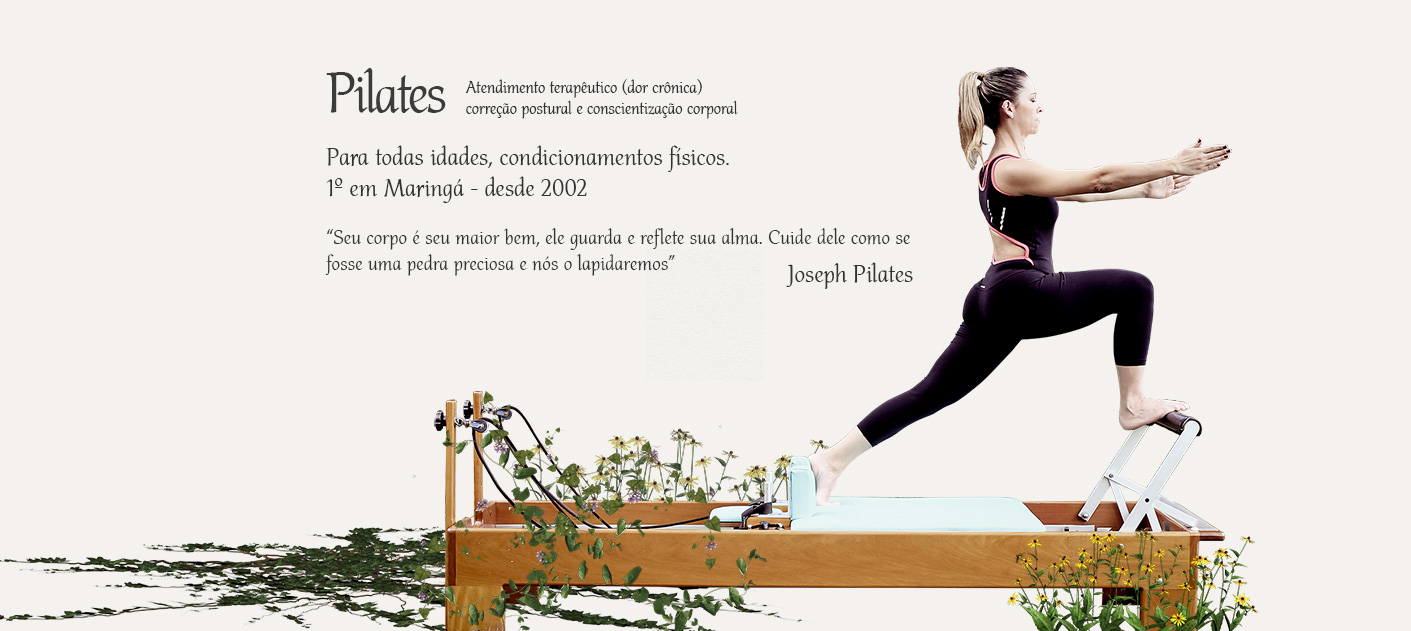
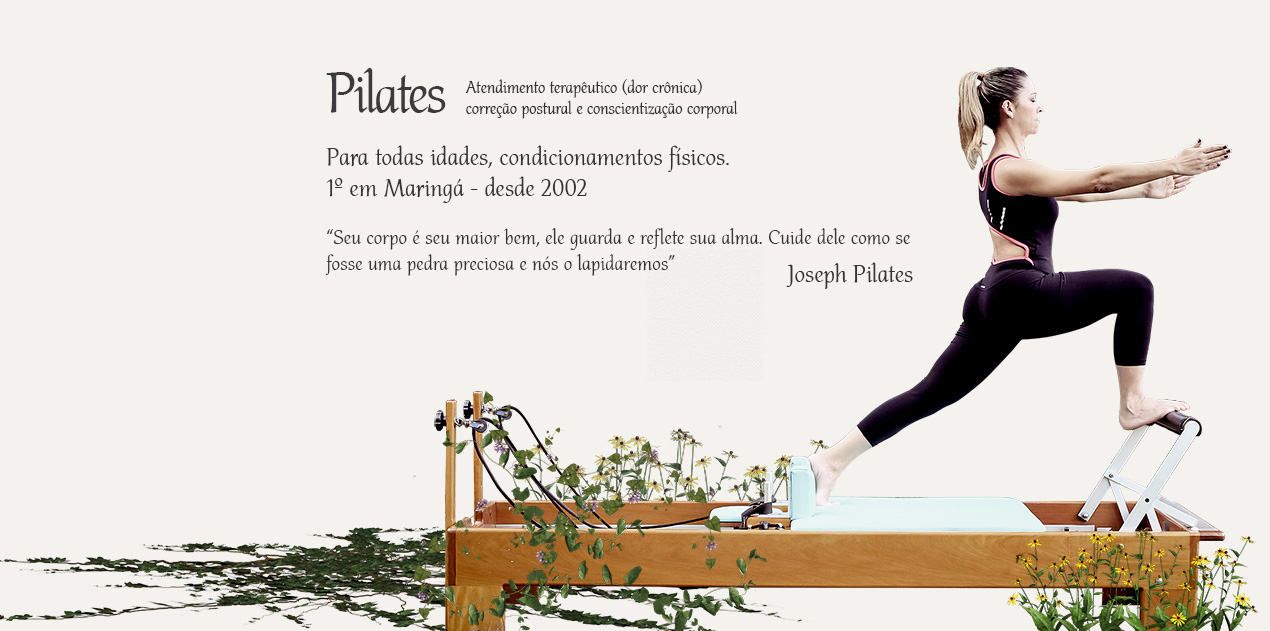
muitas alterações, dotenv, mobile-detect, etc

Changed region(s): [[0.0, 0.0903, 0.9827, 1.0], [0.215, 0.2409, 0.5835, 0.3312], [0.215, 0.0903, 0.5835, 0.1807]]

diff --git a/app/front/js/nanobar.min.js b/app/front/js/nanobar.min.js
@@ -1,1 +1,1 @@
-(function(root){"use strict";var css=".nanobar{width:100%;height:4px;z-index:9999;top:0}.bar{width:0;height:100%;transition:height .3s;background:#000}";function addCss(){var s=document.getElementById("nanobarcss");if(s===null){s=document.createElement("style");s.type="text/css";s.id="nanobarcss";document.head.insertBefore(s,document.head.firstChild);if(!s.styleSheet)return s.appendChild(document.createTextNode(css));s.styleSheet.cssText=css}}function addClass(el,cls){if(el.classList)el.classList.add(cls);else el.className+=" "+cls}function createBar(rm){var el=document.createElement("div"),width=0,here=0,on=0,bar={el:el,go:go};addClass(el,"bar");function move(){var dist=width-here;if(dist<.1&&dist>-.1){place(here);on=0;if(width===100){el.style.height=0;setTimeout(function(){rm(el)},300)}}else{place(width-dist/4);setTimeout(go,16)}}function place(num){width=num;el.style.width=width+"%"}function go(num){if(num>=0){here=num;if(!on){on=1;move()}}else if(on){move()}}return bar}function Nanobar(opts){opts=opts||{};var el=document.createElement("div"),applyGo,nanobar={el:el,go:function(p){applyGo(p);if(p===100){init()}}};function rm(child){el.removeChild(child)}function init(){var bar=createBar(rm);el.appendChild(bar.el);applyGo=bar.go}addCss();addClass(el,"nanobar");if(opts.id)el.id=opts.id;if(opts.classname)addClass(el,opts.classname);if(opts.target){el.style.position="relative";opts.target.insertBefore(el,opts.target.firstChild)}else{el.style.position="fixed";document.getElementsByTagName("body")[0].appendChild(el)}init();return nanobar}if(typeof exports==="object"){module.exports=Nanobar}else if(typeof define==="function"&&define.amd){define([],function(){return Nanobar})}else{root.Nanobar=Nanobar}})(this);
+(function(root){var css=".nanobar{width:100%;height:4px;z-index:9999;top:0}.bar{width:0;height:100%;transition:height .3s;background:#000}";function addCss(){var s=document.getElementById("nanobarcss");if(s===null){s=document.createElement("style");s.type="text/css";s.id="nanobarcss";document.head.insertBefore(s,document.head.firstChild);if(!s.styleSheet)return s.appendChild(document.createTextNode(css));s.styleSheet.cssText=css}}function addClass(el,cls){if(el.classList)el.classList.add(cls);else el.className+=" "+cls}function createBar(rm){var el=document.createElement("div"),width=0,here=0,on=0,bar={el:el,go:go};addClass(el,"bar");function move(){var dist=width-here;if(dist<.1&&dist>-.1){place(here);on=0;if(width===100){el.style.height=0;setTimeout(function(){rm(el)},300)}}else{place(width-dist/4);setTimeout(go,16)}}function place(num){width=num;el.style.width=width+"%"}function go(num){if(num>=0){here=num;if(!on){on=1;move()}}else if(on){move()}}return bar}function Nanobar(opts){opts=opts||{};var el=document.createElement("div"),applyGo,nanobar={el:el,go:function(p){applyGo(p);if(p===100){init()}}};function rm(child){el.removeChild(child)}function init(){var bar=createBar(rm);el.appendChild(bar.el);applyGo=bar.go}addCss();addClass(el,"nanobar");if(opts.id)el.id=opts.id;if(opts.classname)addClass(el,opts.classname);if(opts.target){el.style.position="relative";opts.target.insertBefore(el,opts.target.firstChild)}else{el.style.position="fixed";document.getElementsByTagName("body")[0].appendChild(el)}init();return nanobar}if(typeof exports==="object"){module.exports=Nanobar}else if(typeof define==="function"&&define.amd){define([],function(){return Nanobar})}else{root.Nanobar=Nanobar}})(this);

diff --git a/app/front/css/main.css b/app/front/css/main.css
@@ -1,5 +1,5 @@
 /*=========== GLOBAL CONFIGS ==========*/
-* {padding: 0;}
+* {margin: 0; padding: 0; font-size: 100%; border: none; outline: none; font-weight: 300; box-sizing: border-box;}
 body{font-family: 'Open Sans', sans-serif !important; background:#f3f1ed url(img/bg_texture.png) repeat;}
 a{text-decoration: none !important; color: #31c1cd;}
 p{ color:#131212;        /* rubens */ font-size: 16px;}
@@ -8,6 +8,7 @@ h1, h2, h3, h4, h5{ font-family: 'Shadows Into Light Two' !important;}
 .btn{background-color:#31c1cd; color:#fff;}
 .btn:hover{background-color:#a4dadf; color:#131212; }
 section{padding:5px 0;}
+.center{ margin: 0 auto;}
 
 /*=========== NANOBAR ==========*/
 div.nanobar div.bar { background: #31c1cd; border-radius: 3px; box-shadow: 0 0 6px #59d; height:3px; margin: 0 auto;}
@@ -17,8 +18,8 @@ div.nanobar div.bar { background: #31c1cd; border-radius: 3px; box-shadow: 0 0 6
 .cl-verde{color:#31c1cd;}
 .bg-azulclaro{background-color:#c0dbd2;}
 .cl-azulclaro{color:#c0dbd2;}
-.bg-cinza{background-color:#343434;}
-.cl-cinza{color:#343434;}
+.bg-cinza{background-color:#414141;}
+.cl-cinza{color:#414141;}
 .cl-black {color: #000; }
 .bg-white {background-color: #fff;}
 .cl-white {color: #fff;}
@@ -60,8 +61,8 @@ div.menu div#navbar-menu:hover,
 #banners .caption h1 { color: #fff; font-size: 40px; margin-bottom: 30px; }
 #banners .caption .btn-start { color: #fff; font-size: 14px; font-weight: 600; padding:14px 40px; border: 1px solid #6e6d6c; border-radius: 4px; margin-top: 40px; }
 #banners .caption .btn-start:hover { color: #fff; }
-#banners div.home { background-color:rgba(49,193,204,.6);; padding: 50px;  position:relative ; margin:0 auto; width:40%; min-width:400px; top:20%;}
-#banners div.home img{ width:90%; height:90%; margin: 0 auto;}
+#banners div.home { background-color:rgba(49,193,204,.5); padding: 20px;  position:relative ; margin:0 auto; width:70%; top:30%;}
+#banners div.home img{ margin: 0 auto;}
 
 /*=========== FOOTER ==========*/
 footer div.footer-top{height:250px; background: #606060 url(img/footer_01.png) no-repeat left top ; width:100%; float: left;}
@@ -124,27 +125,40 @@ section.contato div.mapa iframe{width:100%; max-height:300px; pointer-events: no
 /*==========  Mobile First Method  ==========*/
 
 /* Custom, iPhone Retina */
-@media only screen and (min-width : 320px) {
-
+@media only screen and (max-width : 320px) {
+    section.home div.pilates{
+        padding: 10px !important;
+        background: url(img/pilates-m.png) no-repeat top 30px right; background-size: contain;
+    }    
+    section.home div.pilates div.first-text {
+        font-size: 11px;
+    }
+    section.home div.pilates div.second-text {
+        margin-top: 90px;
+    }
+    section.home div.pilates div.second-text {
+        
+    }
+         
 }
 
 /* Extra Small Devices, Phones */
-@media only screen and (min-width : 480px) {
+@media only screen and (max-width : 480px) {
 
 }
 
 /* Small Devices, Tablets */
-@media only screen and (min-width : 768px) {
+@media only screen and (max-width : 768px) {
 
 }
 
 /* Medium Devices, Desktops */
-@media only screen and (min-width : 992px) {
+@media only screen and (max-width : 992px) {
 
 }
 
 /* Large Devices, Wide Screens */
-@media only screen and (min-width : 1200px) {
+@media only screen and (max-width : 1200px) {
 
 }
 

diff --git a/app/front/templates/includes/header.html b/app/front/templates/includes/header.html
@@ -5,7 +5,7 @@
         <meta http-equiv="Content-Language" content="pt-br" />
         <meta name="language" content="pt-br" />
         <meta http-equiv="X-UA-Compatible" content="IE=edge">
-        {if $ambiente == "producao"}
+        {if $environment == "production"}
           {literal}
             <!-- Google Tag Manager -->
                 <script>(function(w,d,s,l,i){w[l]=w[l]||[];w[l].push({'gtm.start':
@@ -18,6 +18,8 @@
                 <noscript><iframe src="https://www.googletagmanager.com/ns.html?id=GTM-KMCXTXJ" height="0" width="0" style="display:none;visibility:hidden"></iframe></noscript>
             <!-- End Google Tag Manager (noscript) -->
           {/literal}
+        {else}
+          <!-- Google Tag Manager -->
         {/if}
         <meta name="viewport" content="width=device-width, initial-scale=1">
         {nocache}

diff --git a/app/front/templates/mobile_home.html b/app/front/templates/mobile_home.html
@@ -1,6 +1,14 @@
 {include file="includes/header.html"}
 <div class="pilates">
-  <img class="img-responsive center" src="{$img}{$thisController}/pilates.png" alt="Pilates" />
+  <h3>Pilates</h3>
+  <p class="first-text"><small>Atendimento terapêutico (dor crônica)<br/>
+  correção postural e <br/>
+  conscientização corporal</small></p>
+  <div class="second-text">
+    <p class="text-justify">Para todas idades, condicionamentos físicos. 1º em Maringá - desde 2002</p>
+    <p class="text-justify">"Seu corpo é seu maior bem, ele guarda e reflete sua alma. Cuide dele como se fosse uma pedra preciosa e nós o lapidaremos"</p>
+    <h5 class="text-right">Joseph Pilates</h5>
+  </div>
 </div>
 <div class="ondeestamos text-left">
   <div class="col-md-6 col-md-offset-6">

diff --git a/app/front/templates/contato.html b/app/front/templates/contato.html
@@ -51,11 +51,13 @@
             </div>
 
           </div>
-          {*if $ambiente == "producao"*}
+          {if $environment == "production"}
           <div class="mapa">
             <iframe src="https://www.google.com/maps/embed?pb=!1m18!1m12!1m3!1d3660.904352226806!2d-51.95038948568941!3d-23.427822062557958!2m3!1f0!2f0!3f0!3m2!1i1024!2i768!4f13.1!3m3!1m2!1s0x94ecd72566d8a729%3A0x5b7ea5c93f5aaa35!2sStudio+Raquel+Pagani!5e0!3m2!1spt-PT!2sbr!4v1482329051706" height="600" frameborder="0" style="border:0" allowfullscreen></iframe>
           </div>
-          {*/if*}
+          {else}
+          <h2 class="align_center">MAP</h2>
+          {/if}
         </div>
     </div>
 {include file="includes/footer.html"}

diff --git a/app/front/templates/includes/footer.html b/app/front/templates/includes/footer.html
@@ -51,8 +51,10 @@
           </ul>
         </div>
         <div class="col-lg-4 col-md-6 col-sm-6 col-xs-12">
-          {if $ambiente == "producao"}
+          {if $environment == "production"}
             <div class="fb-page" data-href="https://www.facebook.com/studioraquelpagani/" data-width="290px" data-small-header="true" data-adapt-container-width="true" data-hide-cover="false" data-show-facepile="true"><blockquote cite="https://www.facebook.com/studioraquelpagani/" class="fb-xfbml-parse-ignore"><a href="https://www.facebook.com/studioraquelpagani/">Studio Raquel Pagani</a></blockquote></div>
+          {else}
+            <h2>Facebook Plugin</h2>
           {/if}
         </div>
       </div>

diff --git a/system/config.php b/system/config.php
@@ -1,43 +1,44 @@
 <?
-define('NAME', 'Studio Raquel Pagani');
-define('HOST', $_SERVER['SERVER_ADDR']);
-define('CHARSET', 'UTF-8');
 
-// Dispositivo
+/* Device */
 if ($detect->isMobile()) {
     define('DEVICE', 'mobile');
 }else{
     define('DEVICE', 'pc');
 }
 
-if (HOST == "127.0.0.1" || HOST == "localhost" || HOST == "::1") {
-    define('AMBIENTE', 'local');
-    define('ROOTURL', 'http://studioraquelpagani2.com.br');     //criar o virtual host e editar o arquivo de hosts
-} else {
-    define('AMBIENTE', 'producao');
-    define('ROOTURL', 'http://www.raquelpagani.com.br');
-    // define('ROOTPATH', $_SERVER['DOCUMENT_ROOT']."/new2"); //se for o mesmo, tira da condição
-    define('DBHOST', 'localhost');
-    define('DBNAME', 'raquelpa_soft');
-    define('DBUSER', 'raquelpa_dev');
-    define('DBPWD', 'soft123thing' );
-}
+define('HOST', $_SERVER['SERVER_ADDR']);
+define('CHARSET', 'UTF-8');
+define('NAME', getenv('NAME'));
+define('ENVIRONMENT', getenv('ENVIRONMENT'));
+define('ROOTURL', getenv('ROOTURL'));
 
-/* Servidor local */
-if (AMBIENTE == "local") {
-    define('DBHOST', '177.70.22.208');
-    define('DBNAME', 'raquelpa_soft');
-    define('DBUSER', 'raquelpa_dev');
-    define('DBPWD', 'soft123thing');
-}
-// if (AMBIENTE == "local") {
-//     define('DBHOST', '172.17.0.2');
-//     define('DBNAME', 'raquelpa_soft');
-//     define('DBUSER', 'root');
-//     define('DBPWD', 'root');
-// }
+/* DB */ 
+define('DB_HOST', getenv('DB_HOST'));
+define('DB_NAME', getenv('DB_NAME'));
+define('DB_USER', getenv('DB_USER'));
+define('DB_PWD', getenv('DB_PWD'));
 
-/* Sistema de arquivos */
+/* Development */
+define('AUTHOR', getenv('AUTHOR'));
+define('DEV', getenv('DEV'));
+define('MAIL_DEV', getenv('MAIL_DEV'));
+define('VERSION', getenv('VERSION'));
+
+/* Send mails config */
+define('SMTP_HOST', getenv('SMTP_HOST'));
+define('SMTP_USER', getenv('SMTP_USER'));
+define('SMTP_PWD', getenv('SMTP_PWD'));
+define('SMTP_PORT', getenv('SMTP_PORT'));
+//define('SMTP_CCO', getenv('SMTP_CCO'));
+
+/* Contact */
+define('CONTACT_EMAIL', getenv('EMAIL'));
+define('CONTACT_PHONE', getenv('PHONE'));
+define('CONTACT_ADDRESS', getenv('ADDRESS'));
+define('CONTACT_GEOLOCATION', getenv('GEOLOCATION'));
+
+/* Paths and dirs config */
 define('ROOTPATH', $_SERVER['DOCUMENT_ROOT']);
 define('CONTROLLERS', ROOTPATH . '/app/back/controllers/');
 define('MODELS', ROOTPATH . '/app/back/models/');
@@ -47,25 +48,8 @@ define('IMG', ROOTURL . '/app/front/img/');
 define('CSS', ROOTURL . '/app/front/css/');
 define('JS', ROOTURL . '/app/front/js/');
 
-/* Smarty */
-define('SMARTY_CACHE', ROOTPATH . '/cache/');
-define('SMARTY_COMPILE', ROOTPATH . '/compile/');
+/* Smarty php template */
+define('SMARTY_CACHE', ROOTPATH . '/cache/'); //path to cache dir
+define('SMARTY_COMPILE', ROOTPATH . '/compile/'); //path to compile dir
 define('SMARTY_CACHE_STATUS', true);
 define('SMARTY_CACHE_LIFETIME', 3600);
-
-/* Development */
-define('AUTHOR', 'Thyago Ghelere');
-define('MAIL_DEV', 'ghelere@outlook.com');
-define('VERSION', '0.3.0');
-
-/* E-mail */
-define('SMTP', 'smtp.gmail.com');
-define('USER', 'pagani.ads@gmail.com');
-define('PWD', '32252411');
-define('PORTA', 587);
-define('CCO', MAIL_DEV); //com cópia oculta para desenvolvedor
-
-define('EMAIL_CONTATO', 'contato@raquelpagani.com.br');
-define('FONE_CONTATO', '(44) 3225-2411');
-define('END_CONTATO', 'Avenida Nóbrega, Nº 536');
-define('LOCAL_CONTATO', 'Maringá – PR');

diff --git a/system/controller.php b/system/controller.php
@@ -20,7 +20,7 @@ class Controller extends System {
         $this->smarty->cache_lifetime = SMARTY_CACHE_LIFETIME;
         //$this->smarty->testInstall();exit;
 
-        $this->smarty->assign("ambiente", AMBIENTE);
+        $this->smarty->assign("environment", ENVIRONMENT);
         $this->smarty->assign("name", NAME);
         $this->smarty->assign("charSet", CHARSET);
         $this->smarty->assign("author", AUTHOR);
@@ -33,10 +33,10 @@ class Controller extends System {
         $this->smarty->assign("thisController", $this->_controller);
         $this->smarty->assign("thisAction", $this->_action);
         $this->smarty->assign("thisParams", $this->_params);
-        $this->smarty->assign("emailContato", EMAIL_CONTATO);
-        $this->smarty->assign("foneContato", FONE_CONTATO);
-        $this->smarty->assign("endContato", END_CONTATO);
-        $this->smarty->assign("localContato", LOCAL_CONTATO);
+        $this->smarty->assign("emailContato", CONTACT_EMAIL);
+        $this->smarty->assign("foneContato", CONTACT_PHONE);
+        $this->smarty->assign("endContato", CONTACT_ADDRESS);
+        $this->smarty->assign("localContato", CONTACT_GEOLOCATION);
         //$this->smarty->assign("connection", CONNECTION);
 
         //Canonical

diff --git a/app/back/controllers/contatoController.php b/app/back/controllers/contatoController.php
@@ -44,16 +44,16 @@ class Contato extends Controller {
                 // $mail->SMTPDebug = 1;
                 $mail->Debugoutput = 'html';
                 $mail->isSMTP();
-                $mail->Host = SMTP;
+                $mail->Host = SMTP_HOST;
                 $mail->SMTPAuth = true;
-                $mail->Username = USER;
-                $mail->Password = PWD;
+                $mail->Username = SMTP_USER;
+                $mail->Password = SMTP_PWD;
                 $mail->SMTPSecure = 'tls';
-                $mail->Port = PORTA;
+                $mail->Port = SMTP_PORT;
                 $mail->CharSet = CHARSET;
                 $mail->WordWrap = 70;
-                $mail->setFrom(EMAIL_CONTATO, NAME);
-                $mail->addAddress(EMAIL_CONTATO);
+                $mail->setFrom(CONTACT_EMAIL, NAME);
+                $mail->addAddress(CONTACT_EMAIL);
                 $mail->addReplyTo($dados['email'], $dados['nome']);
                 // $mail->addBCC(CCO); //copia oculta para programador
                 $mail->isHTML(true);

diff --git a/system/helpers/MailHelper.php b/system/helpers/MailHelper.php
@@ -13,16 +13,16 @@ class MailHelper {
         $this->$mailer->IsSMTP();
         $this->$mailer->SMTPAuth = TRUE;
         $this->$mailer->SMTPSecure = "tls";
-        $this->$mailer->Port = SMTP_PORTA;
+        $this->$mailer->Port = SMTP_PORT;
         $this->$mailer->Host = SMTP_HOST;
         $this->$mailer->Username = SMTP_USER;
         $this->$mailer->Password = SMTP_PWD;
-        $this->$mailer->SetFrom("thyagoghelere@gmail.com", "Eventualizando");
+        $this->$mailer->SetFrom(CONTACT_EMAIL, NAME);
 
-        $this->$mailer->CharSet = "UTF-8";
-        $this->$mailer->AddAddress("ghelere@outlook.com", "Ghelere");
-        $this->$mailer->AddBCC("thyagoghelere@hotmail.com");
-        $this->$mailer->Subject = SLOGAN;
+        $this->$mailer->CharSet = CHARSET;
+        // $this->$mailer->AddAddress("user@mail.com", "Name");
+        // $this->$mailer->AddBCC("user@email.com");
+        $this->$mailer->Subject = "";
         $this->$mailer->MsgHTML($conteudo);
         return $this;
     }

diff --git a/app/back/controllers/indexController.php b/app/back/controllers/indexController.php
@@ -12,7 +12,13 @@ class Index extends Controller {
 		$this -> smarty -> assign("description", "O Studio Raquel Pagani é pioneiro no Pilates e Power Plate em Maringá. Desde 2002. Acreditamos na conscientização corporal em busca do bem-estar e alívio de dor crônica.");
 		$this -> smarty -> assign("keywords", "Estudio, pilates, power plate, trx, rpg, osteopatia, “drenagem linfática”, fisioterapia, recuperação, bem estar, idosos, atletas, treinamento funcional, “Pilates aéreo”, ioga, dor crônica, fibromialgia, aeropilates, maringá, paraná, “aula de Pilates”, “Pilates solo”, “benefícios do Pilates”, “Pilates maringá”, “artrite reumatoide”, artrose, Osteopenia, osteoporose, “hérnia de disco”, “mercadinho do studio”, Detox, fortalecimento.");
 
-		$this -> smarty -> display("home.html");
+		if (DEVICE == 'mobile') {
+			$this -> smarty -> display("mobile_home.html");
+		}else{
+			$this -> smarty -> display("home.html");
+		}
+
+		
 	}
 
 }

diff --git a/index.php b/index.php
@@ -16,13 +16,13 @@
  * @author 	    Thyago Ghelere "ghelere@outlook.com"
  */
 
-require_once($_SERVER['DOCUMENT_ROOT'].'/vendor/autoload.php');
+require_once('vendor/autoload.php');
 
-require_once($_SERVER['DOCUMENT_ROOT'].'/vendor/mobiledetect/mobiledetectlib/Mobile_Detect.php');
+require_once('vendor/mobiledetect/mobiledetectlib/Mobile_Detect.php');
 $detect = new Mobile_Detect;
 
 $dotenv = new Dotenv\Dotenv(__DIR__);
 $dotenv->load();
 
-require_once($_SERVER['DOCUMENT_ROOT'].'/system/config.php');
-require_once($_SERVER['DOCUMENT_ROOT'].'/system/setup.php');
+require_once('system/config.php');
+require_once('system/setup.php');
